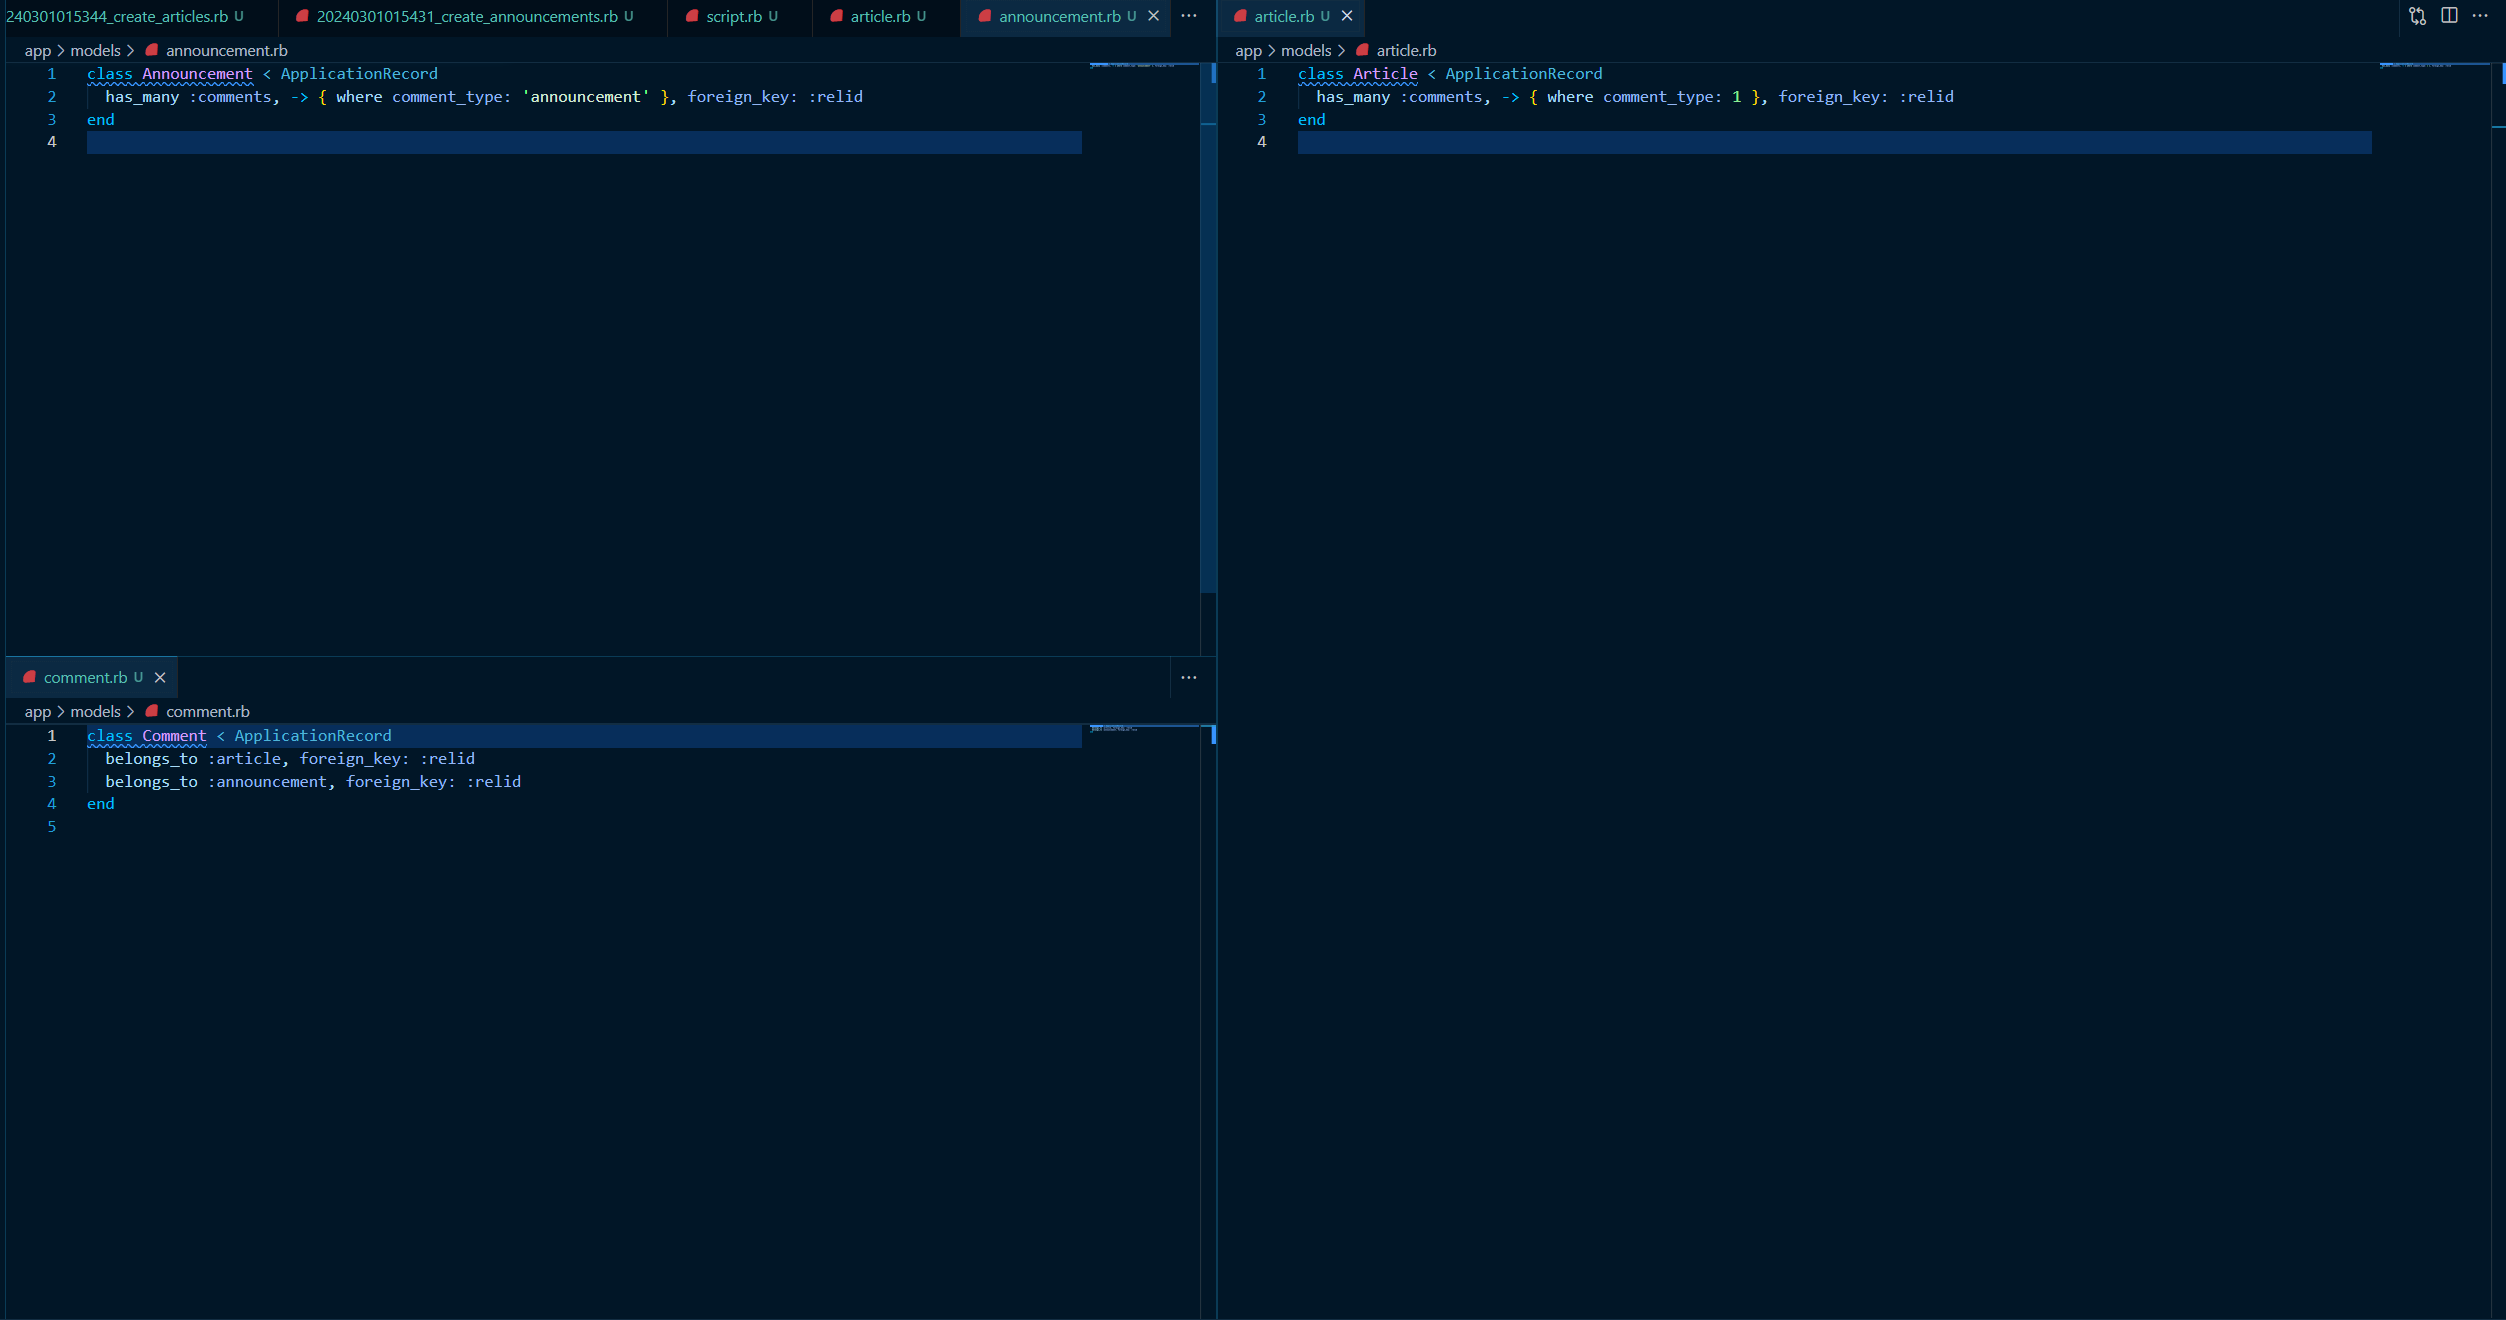
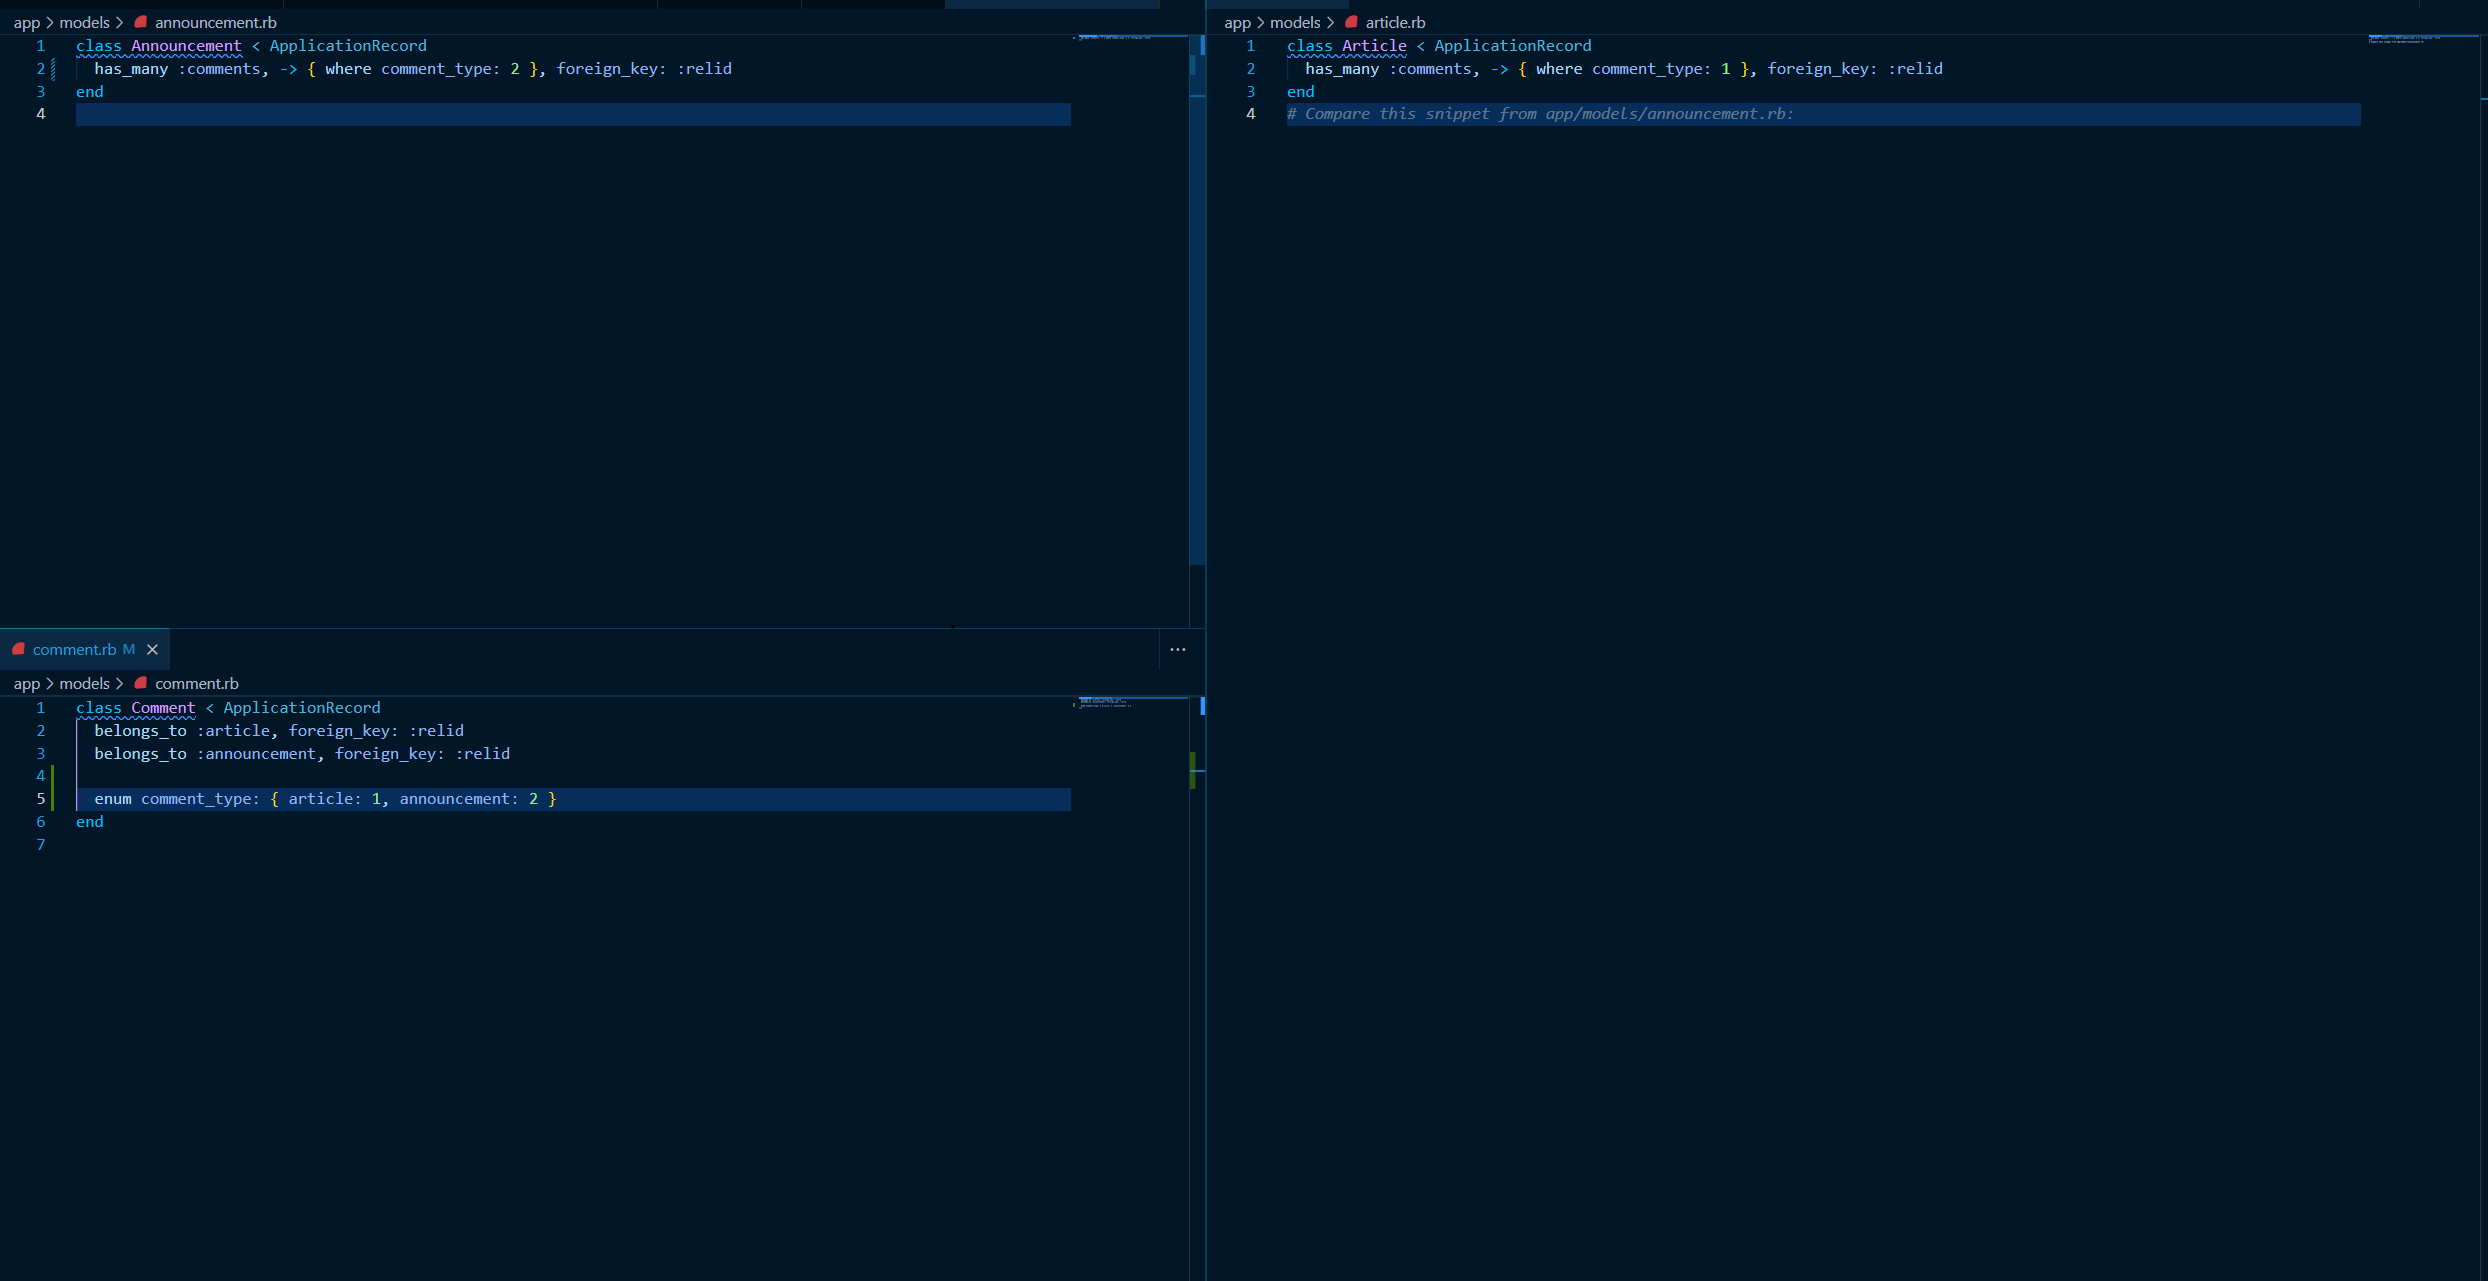
update

diff --git a/app/models/announcement.rb b/app/models/announcement.rb
@@ -1,3 +1,3 @@
 class Announcement < ApplicationRecord
-  has_many :comments, -> { where comment_type: 'announcement' }, foreign_key: :relid
+  has_many :comments, -> { where comment_type: 2 }, foreign_key: :relid
 end

diff --git a/app/models/comment.rb b/app/models/comment.rb
@@ -1,4 +1,6 @@
 class Comment < ApplicationRecord
   belongs_to :article, foreign_key: :relid
   belongs_to :announcement, foreign_key: :relid
+
+  enum comment_type: { article: 1, announcement: 2 }
 end

diff --git a/README.md b/README.md
@@ -17,5 +17,47 @@
 
 1. `rails runner script.rb`
 
+Output:
+```
+Creating First Article
+#<Article:0x00007f496bbe16b0 id: 1, name: "first article", created_at: Fri, 01 Mar 2024 02:35:05.894242000 UTC +00:00, updated_at: Fri, 01 Mar 2024 02:35:05.894242000 UTC +00:00>
+
+
+Creating First Announcement
+#<Announcement:0x00007f496acc6860 id: 1, name: "first announcement", created_at: Fri, 01 Mar 2024 02:35:05.929429000 UTC +00:00, updated_at: Fri, 01 Mar 2024 02:35:05.929429000 UTC +00:00>
+
+
+Creating First Comment
+#<Comment:0x00007f496b397748
+ id: 1,
+ name: "first article comment",
+ comment_type: "article",
+ relid: 1,
+ created_at: Fri, 01 Mar 2024 02:35:05.953505000 UTC +00:00,
+ updated_at: Fri, 01 Mar 2024 02:35:05.953505000 UTC +00:00>
+
+
+Article has one comment. Good!
+[#<Comment:0x00007f496b5ccd10
+  id: 1,
+  name: "first article comment",
+  comment_type: "article",
+  relid: 1,
+  created_at: Fri, 01 Mar 2024 02:35:05.953505000 UTC +00:00,
+  updated_at: Fri, 01 Mar 2024 02:35:05.953505000 UTC +00:00>]
+
+
+Announcement has no comments. Good!
+[]
+
+
+The first Comment belongs to article. Good!
+#<Article:0x00007f496ca20a00 id: 1, name: "first article", created_at: Fri, 01 Mar 2024 02:35:05.894242000 UTC +00:00, updated_at: Fri, 01 Mar 2024 02:35:05.894242000 UTC +00:00>
+
+
+The same comment also belongs to announcement. Uhm....
+#<Announcement:0x00007f496ac344d8 id: 1, name: "first announcement", created_at: Fri, 01 Mar 2024 02:35:05.929429000 UTC +00:00, updated_at: Fri, 01 Mar 2024 02:35:05.929429000 UTC +00:00>
+```
+
 
 *Use this code at your own risk*
